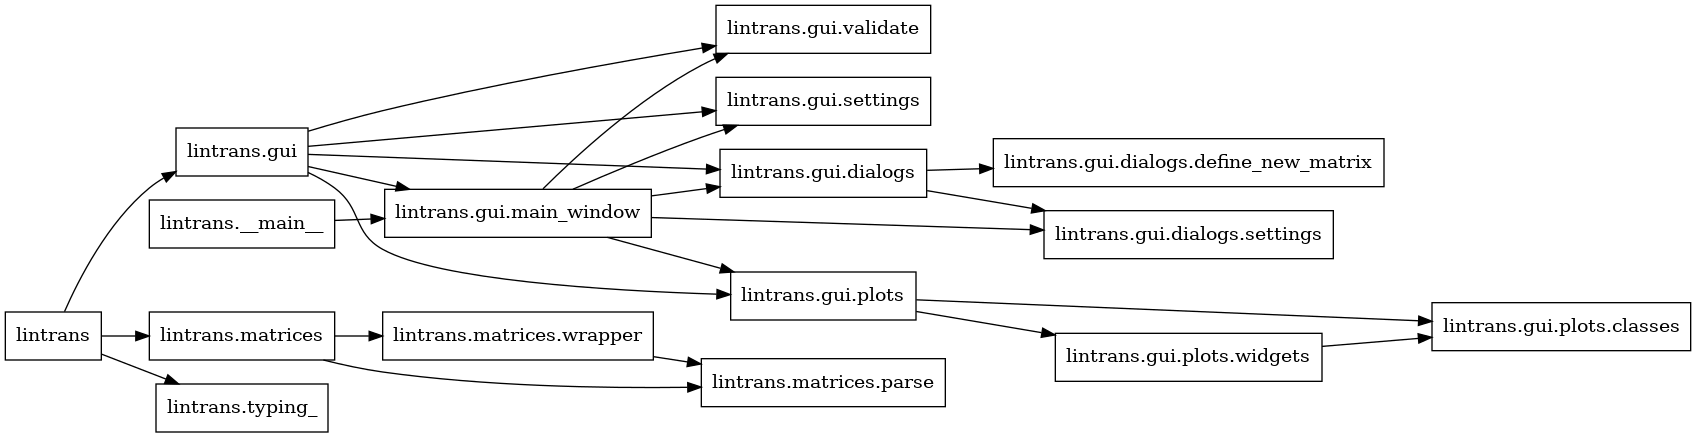
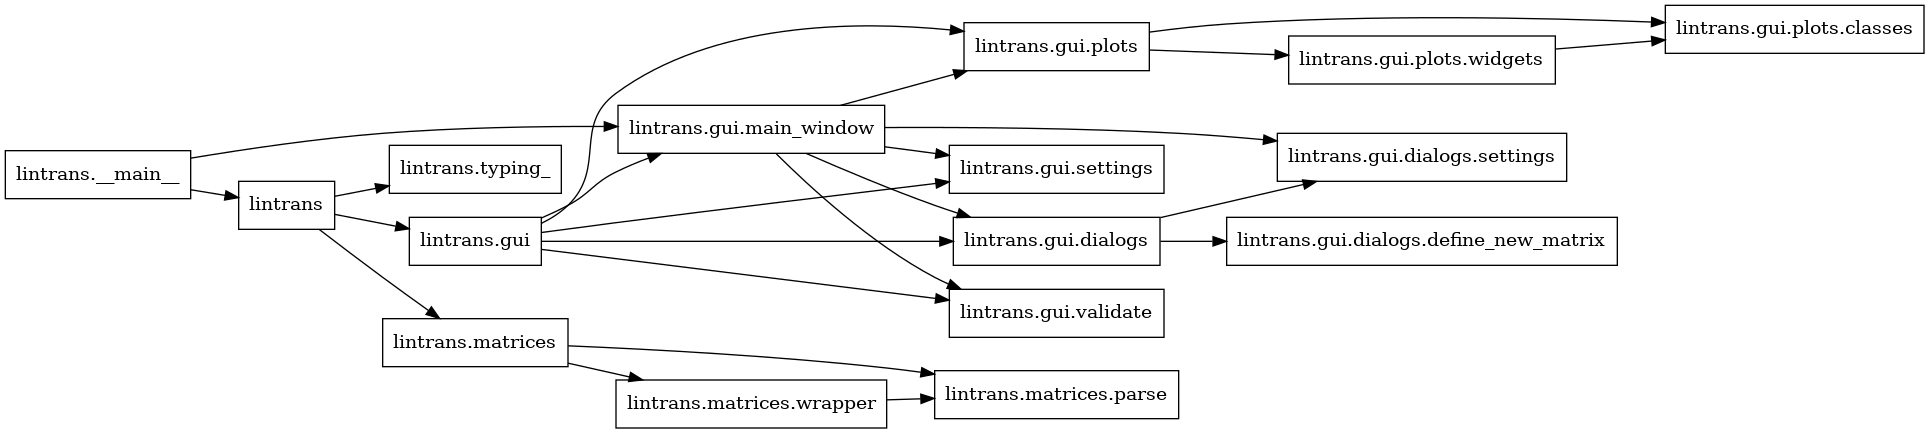
compile docs: ffc603f1bf049811cb927f879ce7989456f6a537

diff --git a/docs/searchindex.js b/docs/searchindex.js
@@ -1,1 +1,1 @@
-Search.setIndex({docnames:["index","lintrans","lintrans.gui","lintrans.gui.dialogs","lintrans.gui.plots","lintrans.matrices","lintrans.typing_"],envversion:{"sphinx.domains.c":2,"sphinx.domains.changeset":1,"sphinx.domains.citation":1,"sphinx.domains.cpp":4,"sphinx.domains.index":1,"sphinx.domains.javascript":2,"sphinx.domains.math":2,"sphinx.domains.python":3,"sphinx.domains.rst":2,"sphinx.domains.std":2,"sphinx.ext.intersphinx":1,sphinx:56},filenames:["index.rst","lintrans.rst","lintrans.gui.rst","lintrans.gui.dialogs.rst","lintrans.gui.plots.rst","lintrans.matrices.rst","lintrans.typing_.rst"],objects:{"":[[1,0,0,"-","lintrans"]],"lintrans.gui":[[3,0,0,"-","dialogs"],[2,0,0,"-","main_window"],[4,0,0,"-","plots"],[2,0,0,"-","settings"],[2,0,0,"-","validate"]],"lintrans.gui.dialogs":[[3,0,0,"-","define_new_matrix"],[3,0,0,"-","settings"]],"lintrans.gui.dialogs.define_new_matrix":[[3,1,1,"","DefineAsAnExpressionDialog"],[3,1,1,"","DefineDialog"],[3,1,1,"","DefineNumericallyDialog"],[3,1,1,"","DefineVisuallyDialog"],[3,4,1,"","is_valid_float"],[3,4,1,"","round_float"]],"lintrans.gui.dialogs.define_new_matrix.DefineAsAnExpressionDialog":[[3,2,1,"","__init__"],[3,2,1,"","confirm_matrix"],[3,2,1,"","load_matrix"],[3,2,1,"","update_confirm_button"]],"lintrans.gui.dialogs.define_new_matrix.DefineDialog":[[3,2,1,"","__init__"],[3,2,1,"","confirm_matrix"],[3,2,1,"","load_matrix"],[3,3,1,"","selected_letter"],[3,2,1,"","update_confirm_button"]],"lintrans.gui.dialogs.define_new_matrix.DefineNumericallyDialog":[[3,2,1,"","__init__"],[3,2,1,"","confirm_matrix"],[3,2,1,"","load_matrix"],[3,2,1,"","update_confirm_button"]],"lintrans.gui.dialogs.define_new_matrix.DefineVisuallyDialog":[[3,2,1,"","__init__"],[3,2,1,"","confirm_matrix"],[3,2,1,"","load_matrix"],[3,2,1,"","update_confirm_button"]],"lintrans.gui.dialogs.settings":[[3,1,1,"","DisplaySettingsDialog"],[3,1,1,"","SettingsDialog"]],"lintrans.gui.dialogs.settings.DisplaySettingsDialog":[[3,2,1,"","__init__"],[3,2,1,"","confirm_settings"],[3,2,1,"","keyPressEvent"],[3,2,1,"","load_settings"],[3,2,1,"","update_gui"]],"lintrans.gui.dialogs.settings.SettingsDialog":[[3,2,1,"","__init__"],[3,2,1,"","confirm_settings"],[3,2,1,"","load_settings"]],"lintrans.gui.main_window":[[2,1,1,"","LintransMainWindow"],[2,4,1,"","main"]],"lintrans.gui.main_window.LintransMainWindow":[[2,2,1,"","__init__"],[2,2,1,"","animate_between_matrices"],[2,2,1,"","animate_expression"],[2,2,1,"","assign_display_settings"],[2,2,1,"","assign_matrix_wrapper"],[2,2,1,"","dialog_change_display_settings"],[2,2,1,"","dialog_define_matrix"],[2,2,1,"","is_matrix_too_big"],[2,2,1,"","render_expression"],[2,2,1,"","reset_transformation"],[2,2,1,"","reset_zoom"],[2,2,1,"","show_error_message"],[2,2,1,"","update_render_buttons"]],"lintrans.gui.plots":[[4,0,0,"-","classes"],[4,0,0,"-","widgets"]],"lintrans.gui.plots.classes":[[4,1,1,"","BackgroundPlot"],[4,1,1,"","VectorGridPlot"]],"lintrans.gui.plots.classes.BackgroundPlot":[[4,2,1,"","__init__"],[4,2,1,"","canvas_coords"],[4,3,1,"","canvas_origin"],[4,2,1,"","canvas_x"],[4,2,1,"","canvas_y"],[4,5,1,"","default_grid_spacing"],[4,2,1,"","draw_background"],[4,2,1,"","grid_coords"],[4,2,1,"","grid_corner"],[4,2,1,"","paintEvent"],[4,2,1,"","wheelEvent"]],"lintrans.gui.plots.classes.VectorGridPlot":[[4,2,1,"","__init__"],[4,3,1,"","det"],[4,2,1,"","draw_arrowhead_away_from_origin"],[4,2,1,"","draw_basis_vectors"],[4,2,1,"","draw_determinant_parallelogram"],[4,2,1,"","draw_determinant_text"],[4,2,1,"","draw_eigenlines"],[4,2,1,"","draw_eigenvectors"],[4,2,1,"","draw_oblique_line"],[4,2,1,"","draw_pair_of_oblique_lines"],[4,2,1,"","draw_parallel_lines"],[4,2,1,"","draw_position_vector"],[4,2,1,"","draw_transformed_grid"],[4,3,1,"","eigs"],[4,3,1,"","matrix"],[4,2,1,"","paintEvent"]],"lintrans.gui.plots.widgets":[[4,1,1,"","DefineVisuallyWidget"],[4,1,1,"","VisualizeTransformationWidget"]],"lintrans.gui.plots.widgets.DefineVisuallyWidget":[[4,2,1,"","__init__"],[4,2,1,"","mouseMoveEvent"],[4,2,1,"","mousePressEvent"],[4,2,1,"","mouseReleaseEvent"],[4,2,1,"","paintEvent"]],"lintrans.gui.plots.widgets.VisualizeTransformationWidget":[[4,2,1,"","__init__"],[4,2,1,"","paintEvent"],[4,2,1,"","visualize_matrix_transformation"]],"lintrans.gui.settings":[[2,1,1,"","DisplaySettings"]],"lintrans.gui.settings.DisplaySettings":[[2,5,1,"","animation_pause_length"],[2,5,1,"","applicative_animation"],[2,5,1,"","draw_determinant_parallelogram"],[2,5,1,"","draw_determinant_text"],[2,5,1,"","draw_eigenlines"],[2,5,1,"","draw_eigenvectors"],[2,5,1,"","smoothen_determinant"]],"lintrans.gui.validate":[[2,1,1,"","MatrixExpressionValidator"]],"lintrans.gui.validate.MatrixExpressionValidator":[[2,2,1,"","validate"]],"lintrans.matrices":[[5,0,0,"-","parse"],[5,0,0,"-","wrapper"]],"lintrans.matrices.parse":[[5,6,1,"","MatrixParseError"],[5,4,1,"","compile_valid_expression_pattern"],[5,4,1,"","parse_matrix_expression"],[5,4,1,"","validate_matrix_expression"]],"lintrans.matrices.wrapper":[[5,1,1,"","MatrixWrapper"],[5,4,1,"","create_rotation_matrix"]],"lintrans.matrices.wrapper.MatrixWrapper":[[5,2,1,"","__eq__"],[5,2,1,"","__getitem__"],[5,2,1,"","__hash__"],[5,2,1,"","__init__"],[5,2,1,"","__repr__"],[5,2,1,"","__setitem__"],[5,2,1,"","evaluate_expression"],[5,2,1,"","get_expression"],[5,2,1,"","is_valid_expression"]],"lintrans.typing_":[[6,5,1,"","MatrixParseList"],[6,5,1,"","MatrixType"],[6,4,1,"","is_matrix_type"]],lintrans:[[1,0,0,"-","__main__"],[2,0,0,"-","gui"],[5,0,0,"-","matrices"],[6,0,0,"-","typing_"]]},objnames:{"0":["py","module","Python module"],"1":["py","class","Python class"],"2":["py","method","Python method"],"3":["py","property","Python property"],"4":["py","function","Python function"],"5":["py","attribute","Python attribute"],"6":["py","exception","Python exception"]},objtypes:{"0":"py:module","1":"py:class","2":"py:method","3":"py:property","4":"py:function","5":"py:attribute","6":"py:exception"},terms:{"0":[0,5],"1":[4,5],"100":2,"12":5,"2":[0,4,5,6],"23":5,"2b":5,"2rot":5,"2x2":[5,6],"3":5,"30":5,"32":2,"3a":5,"3b":5,"3m":5,"4":5,"400":2,"45":5,"45m":5,"5":[3,5],"6":5,"6b":5,"6d":5,"7":5,"70710678":5,"8":5,"85":4,"8660254":5,"9":5,"9e":5,"abstract":[3,4],"class":[2,3,5],"do":3,"float":[3,4,5,6],"function":[3,4,5,6],"int":[2,3,4,5],"long":5,"new":[2,3,5],"return":[2,3,4,5,6],"super":[3,4],"true":[2,4,5,6],"try":2,A:5,For:[3,5],If:[0,3,4,5],In:[5,6],It:[0,3,4,5],The:[2,3,4,5],There:2,These:[3,5,6],To:[0,4],__eq__:5,__getitem__:5,__hash__:5,__init__:[2,3,4,5],__repr__:5,__setitem__:5,_ndarrai:6,_number:6,ab:5,abc:[3,4],abcmeta:[3,4],abl:[3,4],about:4,accept:[2,3,5],access:5,accord:[2,3,5],activ:3,actual:[2,3,4,5],against:5,algebra:6,alias:6,all:[1,4,5,6],allow:[1,3,4,5],also:[2,5],alt:3,alwai:3,an:[0,2,3,4,5,6],angl:[5,6],ani:[4,5,6],anim:[2,5],animate_between_matric:2,animate_express:2,animation_pause_length:2,anticlockwis:5,anyth:3,app:[1,2,3],appli:2,applic:[2,4],applicative_anim:2,ar:[2,3,4,5,6],arg:[2,3,4],argument:2,argv:2,around:4,arrai:[5,6],arrang:2,arrowhead:4,assembl:4,assign:[2,3,4,5],assign_display_set:2,assign_matrix_wrapp:2,associ:2,asynchron:2,attempt:5,attribut:[2,4],automat:3,avail:0,avoid:6,awai:4,awar:5,b:5,back:2,backend:[0,4],background:4,backgroundplot:4,base:[2,3,4,5],basi:4,basic:5,becaus:[2,3,4],been:[3,6],behaviour:4,between:[2,5],bit:2,block:2,blow:2,bnf:5,bodi:3,bool:[2,3,4,5],boundari:4,box:[2,3],brace:5,bracket:5,build:3,builtin:6,button:[2,3,4],c:[2,4],call:[1,2,3,4,5,6],caller:4,can:[3,4,5],cannot:[4,5],canva:[2,4],canvas_coord:4,canvas_i:4,canvas_origin:4,canvas_x:4,capit:[5,6],cast:3,chang:2,check:[2,3,5,6],checkbox:3,chosen:3,clarifi:5,code:0,collis:6,colour:4,combo:3,comma:[2,5],command:1,compar:5,compil:5,compile_valid_expression_pattern:5,compon:[4,5],compos:4,composit:4,configur:2,confirm:3,confirm_matrix:3,confirm_set:3,connect:2,constant:5,construct:2,constructor:[3,4],contain:[1,2,5,6],context:5,control:[2,4],convert:[2,4],coord:[2,4],coordin:4,corner:4,correct:5,could:5,couldn:4,crash:2,creat:[2,3,4,5],create_rotation_matrix:5,current:[2,3],custom:5,d:5,debug:5,decim:3,default_grid_spac:4,defin:[2,3,4,5],define_new_matrix:[2,4],defineasanexpressiondialog:3,definedialog:[2,3],definenumericallydialog:3,definevisuallydialog:[3,4],definevisuallywidget:4,definit:[2,3,4],degre:5,desir:2,det:[2,4],detail:4,determin:[2,4],dialog:[2,4],dialog_change_display_set:2,dialog_class:2,dialog_define_matrix:2,dictionari:5,differ:3,digit:5,digit_no_zero:5,directli:[2,3,4],disabl:[2,3],displai:[2,3,4],display_set:[2,3,4],displayset:[2,3,4],displaysettingsdialog:3,document:[0,5],doe:4,doesn:[2,3],don:6,done:4,drag:4,draw:[2,4],draw_arrowhead_away_from_origin:4,draw_background:4,draw_basis_vector:4,draw_determinant_parallelogram:[2,4],draw_determinant_text:[2,4],draw_eigenlin:[2,4],draw_eigenvector:[2,4],draw_oblique_lin:4,draw_pair_of_oblique_lin:4,draw_parallel_lin:4,draw_position_vector:4,draw_transformed_grid:4,drawlin:4,drawn:4,dure:2,e:5,each:6,edit:3,eig:4,eigenlin:[2,4],eigenvalu:4,eigenvector:[2,4],either:4,element:2,els:[3,5],empti:3,enabl:[2,3,4],ensur:5,equal:5,equat:4,error:[2,3,5],evalu:[3,5,6],evaluate_express:5,even:2,evenli:4,event:[3,4],everi:[2,3,4,6],everyth:5,exampl:[3,5],except:5,exclus:5,expect:5,express:[1,2,3],fals:[2,3,4,5],fetch:5,fit:[2,4],fix:6,focu:2,found:5,framework:2,from:[1,2,4,5],gener:[0,2],get:[0,2,5],get_express:5,give:2,given:[2,3,4,5,6],got:3,gradient:4,graph:0,grid:4,grid_coord:4,grid_corn:4,group:6,gui:[0,1,5],handl:[3,4],hash:5,have:[3,4,6],here:[0,3,5],hit:3,hold:[2,5],how:[0,6],howev:[3,5],i:[3,4,5,6],ident:[2,3],identifi:6,ignor:[2,5],implement:[3,4],index:[0,3,5,6],index_cont:5,info:2,inform:2,initialis:5,input:[2,3,5],insid:2,instanc:2,instanti:[2,3,4],instead:2,integ:[2,5,6],integer_not_zero:5,intend:4,interact:2,intercept:4,intern:0,interpret:5,intersect:4,invalid:5,invari:4,invers:5,is_matrix_too_big:2,is_matrix_typ:6,is_valid_express:5,is_valid_float:3,isn:5,iter:4,its:[3,4,5],itself:[4,5],j:4,just:[2,3,4,5],kei:3,keypressev:3,know:6,kwarg:[3,4],layout:3,legal:5,let:2,letter:[3,5,6],level:[1,2,6],librari:0,like:[1,3,4,5],limit:2,linalgerror:5,line:[1,4],linear:6,lintransmainwindow:2,list:[2,5,6],load:3,load_matrix:3,load_set:3,m:[1,4,5],mai:5,main:[1,2,3,4,5],main_window:1,make:[2,3,4],manual:3,match:5,matric:[1,2,3],matrix:[2,3,4,5,6],matrix_identifi:[5,6],matrix_start:2,matrix_target:2,matrix_wrapp:[2,3],matrixexpressionvalid:2,matrixparseerror:5,matrixparselist:[5,6],matrixtyp:[2,4,5,6],matrixwrapp:[3,5],mean:[2,4,5,6],messag:2,metaclass:[3,4],method:[2,3,4,5],middl:4,millisecond:2,minu:5,modal:2,modul:0,more:2,mous:4,mousemoveev:4,mousepressev:4,mousereleaseev:4,move:4,multipl:6,multipli:[5,6],must:[2,3,4,5,6],mutat:3,mx:4,n:5,name:[3,5,6],nameerror:5,ndarrai:[4,6],need:[3,4,5],neg:[2,4,5],never:[3,4],new_matrix:5,nice:5,none:[2,3,4,5],normal:2,notat:5,np:5,nptype:6,num:3,number:[2,3,5,6],numer:3,numpi:[5,6],object:[2,3,5],obliqu:4,occur:6,often:2,onc:6,onli:[2,3,4],onto:2,open:2,option:[2,3,5],order:6,origin:4,other:[3,5],our:4,over:4,overridden:[3,4],overview:0,own:5,packag:0,painter:4,paintev:4,pair:4,parallel:4,parallelogram:[2,4],paramet:[2,3,4,5],pars:1,parse_matrix_express:5,part:4,pass:[2,3,4,6],pattern:5,pi:5,place:3,plane:4,plot:[2,3],plu:5,po:2,point:[3,4],point_i:4,point_j:4,posit:[2,4,5],possibl:5,power:5,precis:3,press:4,pretti:3,previous:5,print:3,problem:6,project:[0,1],proper:2,properti:[3,4],provid:[2,3,4,5],pylint:0,pyqt5:[2,3,4],python:1,qapplic:2,qcolor:4,qcombobox:3,qdialog:[2,3],qkeyev:3,qmainwindow:2,qmouseev:4,qpainter:4,qpaintev:4,qt:[2,3,4],qtgui:[2,3,4],qtwidget:[2,3,4],quit:6,qvalid:2,qwheelev:4,qwidget:4,radian:5,rais:[3,5],rather:3,re:2,real:[5,6],real_numb:5,refer:0,regex:5,releas:4,renam:6,render:[2,4],render_express:2,repr:5,repres:[2,4,5,6],reset:2,reset_transform:2,reset_zoom:2,result:[4,5],right:4,rot:[5,6],rotat:5,round:3,round_float:3,rule:2,run:[1,2],s:[0,2,3,6],same:[3,4],schema:5,see:4,select:3,selected_lett:3,self:[2,3,4],separ:3,set:[1,4,5],settingsdialog:3,setup:4,shade:2,shortcut:3,should:[2,3,4,6],show:[2,3],show_error_messag:2,signal:[2,3],simpl:[2,3,5],simpli:[1,2,3,5],singl:5,singular:5,slot:3,smoothen_determin:2,smoothli:2,so:[2,3],softwar:0,some:2,space:4,squar:5,start:2,state:2,step:[2,5],str:[2,3,5],string:[3,4,5,6],structur:0,stuff:4,subclass:[2,3,4],sum:6,summari:5,superclass:[3,4],suppli:[2,5,6],sure:2,sy:2,syntax:[1,2],t:[2,3,4,5,6],target:2,tc:2,technic:5,term:5,text:[2,4],than:3,thei:[2,6],them:[4,5,6],thi:[0,1,2,3,4,5,6],thing:2,tip:4,titl:2,togeth:[4,6],toggl:3,top:[1,4,6],track:4,transform:[2,4,6],transit:2,transpos:[5,6],tupl:[2,4,6],tutori:0,two:2,type:[2,4,5,6],typeerror:5,typeguard:6,typing_:[1,2,4,5],union:5,unpack:4,untransform:4,up:2,updat:[3,4],update_confirm_button:3,update_gui:3,update_render_button:2,us:[0,2,3,4,5],user:[1,3,4],util:4,valid:[1,3,5,6],validate_matrix_express:5,valu:[2,3,4,5,6],valueerror:5,vector:4,vectorgridplot:4,veri:1,versa:2,version:[0,4,5],vice:2,visual:[2,3,4],visualis:4,visualize_matrix_transform:4,visualizetransformationwidget:4,wai:3,wait:2,want:[0,2,4,5],we:[2,3,4,5],well:4,were:4,wheelev:4,when:[2,3,4,5],where:[5,6],whether:[2,3,4,5],which:[1,2,3,4,5,6],whitespac:5,widget:[2,3],window:[2,4],within:[2,3,4],worri:4,would:[3,4],wrap:5,wrapper:[1,3],write:[2,4],written:5,x1:4,x2:4,x:[4,5,6],y1:4,y2:4,y:4,you:[0,4,5],z:5,zip:4,zoom:[2,4]},titles:["Welcome to the lintrans docs","lintrans package","lintrans.gui package","lintrans.gui.dialogs package","lintrans.gui.plots package","lintrans.matrices package","lintrans.typing_ package"],titleterms:{"class":4,__main__:1,content:[0,1,2,3,4,5,6],define_new_matrix:3,dialog:3,doc:0,express:5,gui:[2,3,4],indic:0,lintran:[0,1,2,3,4,5,6],main_window:2,matric:5,modul:[1,2,3,4,5,6],packag:[1,2,3,4,5,6],pars:5,plot:4,set:[2,3],submodul:[1,2,3,4,5],subpackag:[1,2],syntax:5,tabl:0,typing_:6,valid:2,welcom:0,widget:4,wrapper:5}})
+Search.setIndex({docnames:["index","lintrans","lintrans.gui","lintrans.gui.dialogs","lintrans.gui.plots","lintrans.matrices","lintrans.typing_"],envversion:{"sphinx.domains.c":2,"sphinx.domains.changeset":1,"sphinx.domains.citation":1,"sphinx.domains.cpp":4,"sphinx.domains.index":1,"sphinx.domains.javascript":2,"sphinx.domains.math":2,"sphinx.domains.python":3,"sphinx.domains.rst":2,"sphinx.domains.std":2,"sphinx.ext.intersphinx":1,sphinx:56},filenames:["index.rst","lintrans.rst","lintrans.gui.rst","lintrans.gui.dialogs.rst","lintrans.gui.plots.rst","lintrans.matrices.rst","lintrans.typing_.rst"],objects:{"":[[1,0,0,"-","lintrans"]],"lintrans.__main__":[[1,1,1,"","main"]],"lintrans.gui":[[3,0,0,"-","dialogs"],[2,0,0,"-","main_window"],[4,0,0,"-","plots"],[2,0,0,"-","settings"],[2,0,0,"-","validate"]],"lintrans.gui.dialogs":[[3,0,0,"-","define_new_matrix"],[3,0,0,"-","settings"]],"lintrans.gui.dialogs.define_new_matrix":[[3,2,1,"","DefineAsAnExpressionDialog"],[3,2,1,"","DefineDialog"],[3,2,1,"","DefineNumericallyDialog"],[3,2,1,"","DefineVisuallyDialog"],[3,1,1,"","is_valid_float"],[3,1,1,"","round_float"]],"lintrans.gui.dialogs.define_new_matrix.DefineAsAnExpressionDialog":[[3,3,1,"","__init__"],[3,3,1,"","confirm_matrix"],[3,3,1,"","load_matrix"],[3,3,1,"","update_confirm_button"]],"lintrans.gui.dialogs.define_new_matrix.DefineDialog":[[3,3,1,"","__init__"],[3,3,1,"","confirm_matrix"],[3,3,1,"","load_matrix"],[3,4,1,"","selected_letter"],[3,3,1,"","update_confirm_button"]],"lintrans.gui.dialogs.define_new_matrix.DefineNumericallyDialog":[[3,3,1,"","__init__"],[3,3,1,"","confirm_matrix"],[3,3,1,"","load_matrix"],[3,3,1,"","update_confirm_button"]],"lintrans.gui.dialogs.define_new_matrix.DefineVisuallyDialog":[[3,3,1,"","__init__"],[3,3,1,"","confirm_matrix"],[3,3,1,"","load_matrix"],[3,3,1,"","update_confirm_button"]],"lintrans.gui.dialogs.settings":[[3,2,1,"","DisplaySettingsDialog"],[3,2,1,"","SettingsDialog"]],"lintrans.gui.dialogs.settings.DisplaySettingsDialog":[[3,3,1,"","__init__"],[3,3,1,"","confirm_settings"],[3,3,1,"","keyPressEvent"],[3,3,1,"","load_settings"],[3,3,1,"","update_gui"]],"lintrans.gui.dialogs.settings.SettingsDialog":[[3,3,1,"","__init__"],[3,3,1,"","confirm_settings"],[3,3,1,"","load_settings"]],"lintrans.gui.main_window":[[2,2,1,"","LintransMainWindow"],[2,1,1,"","main"]],"lintrans.gui.main_window.LintransMainWindow":[[2,3,1,"","__init__"],[2,3,1,"","animate_between_matrices"],[2,3,1,"","animate_expression"],[2,3,1,"","assign_display_settings"],[2,3,1,"","assign_matrix_wrapper"],[2,3,1,"","dialog_change_display_settings"],[2,3,1,"","dialog_define_matrix"],[2,3,1,"","is_matrix_too_big"],[2,3,1,"","render_expression"],[2,3,1,"","reset_transformation"],[2,3,1,"","reset_zoom"],[2,3,1,"","show_error_message"],[2,3,1,"","update_render_buttons"]],"lintrans.gui.plots":[[4,0,0,"-","classes"],[4,0,0,"-","widgets"]],"lintrans.gui.plots.classes":[[4,2,1,"","BackgroundPlot"],[4,2,1,"","VectorGridPlot"]],"lintrans.gui.plots.classes.BackgroundPlot":[[4,3,1,"","__init__"],[4,3,1,"","canvas_coords"],[4,4,1,"","canvas_origin"],[4,3,1,"","canvas_x"],[4,3,1,"","canvas_y"],[4,5,1,"","default_grid_spacing"],[4,3,1,"","draw_background"],[4,3,1,"","grid_coords"],[4,3,1,"","grid_corner"],[4,3,1,"","paintEvent"],[4,3,1,"","wheelEvent"]],"lintrans.gui.plots.classes.VectorGridPlot":[[4,3,1,"","__init__"],[4,4,1,"","det"],[4,3,1,"","draw_arrowhead_away_from_origin"],[4,3,1,"","draw_basis_vectors"],[4,3,1,"","draw_determinant_parallelogram"],[4,3,1,"","draw_determinant_text"],[4,3,1,"","draw_eigenlines"],[4,3,1,"","draw_eigenvectors"],[4,3,1,"","draw_oblique_line"],[4,3,1,"","draw_pair_of_oblique_lines"],[4,3,1,"","draw_parallel_lines"],[4,3,1,"","draw_position_vector"],[4,3,1,"","draw_transformed_grid"],[4,4,1,"","eigs"],[4,4,1,"","matrix"],[4,3,1,"","paintEvent"]],"lintrans.gui.plots.widgets":[[4,2,1,"","DefineVisuallyWidget"],[4,2,1,"","VisualizeTransformationWidget"]],"lintrans.gui.plots.widgets.DefineVisuallyWidget":[[4,3,1,"","__init__"],[4,3,1,"","mouseMoveEvent"],[4,3,1,"","mousePressEvent"],[4,3,1,"","mouseReleaseEvent"],[4,3,1,"","paintEvent"]],"lintrans.gui.plots.widgets.VisualizeTransformationWidget":[[4,3,1,"","__init__"],[4,3,1,"","paintEvent"],[4,3,1,"","visualize_matrix_transformation"]],"lintrans.gui.settings":[[2,2,1,"","DisplaySettings"]],"lintrans.gui.settings.DisplaySettings":[[2,5,1,"","animation_pause_length"],[2,5,1,"","applicative_animation"],[2,5,1,"","draw_determinant_parallelogram"],[2,5,1,"","draw_determinant_text"],[2,5,1,"","draw_eigenlines"],[2,5,1,"","draw_eigenvectors"],[2,5,1,"","smoothen_determinant"]],"lintrans.gui.validate":[[2,2,1,"","MatrixExpressionValidator"]],"lintrans.gui.validate.MatrixExpressionValidator":[[2,3,1,"","validate"]],"lintrans.matrices":[[5,0,0,"-","parse"],[5,0,0,"-","wrapper"]],"lintrans.matrices.parse":[[5,6,1,"","MatrixParseError"],[5,1,1,"","compile_valid_expression_pattern"],[5,1,1,"","parse_matrix_expression"],[5,1,1,"","validate_matrix_expression"]],"lintrans.matrices.wrapper":[[5,2,1,"","MatrixWrapper"],[5,1,1,"","create_rotation_matrix"]],"lintrans.matrices.wrapper.MatrixWrapper":[[5,3,1,"","__eq__"],[5,3,1,"","__getitem__"],[5,3,1,"","__hash__"],[5,3,1,"","__init__"],[5,3,1,"","__repr__"],[5,3,1,"","__setitem__"],[5,3,1,"","evaluate_expression"],[5,3,1,"","get_expression"],[5,3,1,"","is_valid_expression"]],"lintrans.typing_":[[6,5,1,"","MatrixParseList"],[6,5,1,"","MatrixType"],[6,1,1,"","is_matrix_type"]],lintrans:[[1,0,0,"-","__main__"],[2,0,0,"-","gui"],[5,0,0,"-","matrices"],[6,0,0,"-","typing_"]]},objnames:{"0":["py","module","Python module"],"1":["py","function","Python function"],"2":["py","class","Python class"],"3":["py","method","Python method"],"4":["py","property","Python property"],"5":["py","attribute","Python attribute"],"6":["py","exception","Python exception"]},objtypes:{"0":"py:module","1":"py:function","2":"py:class","3":"py:method","4":"py:property","5":"py:attribute","6":"py:exception"},terms:{"0":[0,1,5],"1":[4,5],"100":2,"12":5,"2":[0,4,5,6],"23":5,"2b":5,"2rot":5,"2x2":[5,6],"3":5,"30":5,"32":2,"3a":5,"3b":5,"3m":5,"4":5,"400":2,"45":5,"45m":5,"5":[3,5],"6":5,"6b":5,"6d":5,"7":5,"70710678":5,"8":5,"85":4,"8660254":5,"9":5,"9e":5,"abstract":[3,4],"case":1,"class":[2,3,5],"do":3,"float":[3,4,5,6],"function":[1,3,4,5,6],"int":[2,3,4,5],"long":5,"new":[2,3,5],"return":[1,2,3,4,5,6],"super":[3,4],"true":[2,4,5,6],"try":2,A:5,For:[3,5],If:[0,1,3,4,5],In:[5,6],It:[0,3,4,5],The:[1,2,3,4,5],There:2,These:[3,5,6],To:[0,4],__eq__:5,__getitem__:5,__hash__:5,__init__:[2,3,4,5],__repr__:5,__setitem__:5,_ndarrai:6,_number:6,ab:5,abc:[3,4],abcmeta:[3,4],abl:[3,4],about:4,accept:[2,3,5],access:5,accord:[2,3,5],activ:3,actual:[2,3,4,5],against:5,algebra:6,alias:6,all:[1,4,5,6],allow:[3,4,5],also:[2,5],alt:3,alwai:3,an:[0,2,3,4,5,6],angl:[5,6],ani:[4,5,6],anim:[2,5],animate_between_matric:2,animate_express:2,animation_pause_length:2,anticlockwis:5,anyth:3,app:[2,3],appli:2,applic:[2,4],applicative_anim:2,ar:[2,3,4,5,6],arg:[1,2,3,4],argument:[1,2],argv:[1,2],around:4,arrai:[5,6],arrang:2,arrowhead:4,assembl:4,assign:[2,3,4,5],assign_display_set:2,assign_matrix_wrapp:2,associ:2,asynchron:2,attempt:5,attribut:[2,4],automat:3,avail:0,avoid:6,awai:4,awar:5,b:5,back:2,backend:[0,4],background:4,backgroundplot:4,base:[2,3,4,5],basi:4,basic:5,becaus:[2,3,4],been:[3,6],behaviour:4,between:[2,5],bit:2,block:2,blow:2,bnf:5,bodi:3,bool:[2,3,4,5],boundari:4,box:[2,3],brace:5,bracket:5,build:3,builtin:6,button:[2,3,4],c:[2,4],call:[2,3,4,5,6],caller:4,can:[3,4,5],cannot:[4,5],canva:[2,4],canvas_coord:4,canvas_i:4,canvas_origin:4,canvas_x:4,capit:[5,6],cast:3,chang:2,check:[2,3,5,6],checkbox:3,chosen:3,clarifi:5,code:0,collis:6,colour:4,combo:3,comma:[2,5],command:1,compar:5,compil:5,compile_valid_expression_pattern:5,compon:[4,5],compos:4,composit:4,configur:2,confirm:3,confirm_matrix:3,confirm_set:3,connect:2,constant:5,construct:2,constructor:[3,4],contain:[1,2,5,6],context:5,control:[2,4],convert:[2,4],coord:[2,4],coordin:4,corner:4,correct:5,could:5,couldn:4,crash:2,creat:[2,3,4,5],create_rotation_matrix:5,current:[2,3],custom:5,d:5,debug:5,decim:3,default_grid_spac:4,defin:[2,3,4,5],define_new_matrix:[2,4],defineasanexpressiondialog:3,definedialog:[2,3],definenumericallydialog:3,definevisuallydialog:[3,4],definevisuallywidget:4,definit:[2,3,4],degre:5,desir:2,det:[2,4],detail:4,determin:[2,4],dialog:[2,4],dialog_change_display_set:2,dialog_class:2,dialog_define_matrix:2,dictionari:5,differ:3,digit:5,digit_no_zero:5,directli:[2,3,4],disabl:[2,3],displai:[2,3,4],display_set:[2,3,4],displayset:[2,3,4],displaysettingsdialog:3,document:[0,5],doe:4,doesn:[2,3],don:[1,6],done:4,drag:4,draw:[2,4],draw_arrowhead_away_from_origin:4,draw_background:4,draw_basis_vector:4,draw_determinant_parallelogram:[2,4],draw_determinant_text:[2,4],draw_eigenlin:[2,4],draw_eigenvector:[2,4],draw_oblique_lin:4,draw_pair_of_oblique_lin:4,draw_parallel_lin:4,draw_position_vector:4,draw_transformed_grid:4,drawlin:4,drawn:4,dure:2,e:5,each:6,edit:3,eig:4,eigenlin:[2,4],eigenvalu:4,eigenvector:[2,4],either:[1,4],element:2,els:[3,5],empti:3,enabl:[2,3,4],ensur:5,equal:5,equat:4,error:[2,3,5],evalu:[3,5,6],evaluate_express:5,even:2,evenli:4,event:[3,4],everi:[2,3,4,6],everyth:5,exampl:[3,5],except:5,exclus:5,expect:5,express:[1,2,3],fals:[2,3,4,5],fetch:5,fit:[2,4],fix:6,focu:2,found:5,framework:2,from:[2,4,5],gener:[0,2],get:[0,2,5],get_express:5,give:2,given:[2,3,4,5,6],got:3,gradient:4,graph:0,grid:4,grid_coord:4,grid_corn:4,group:6,gui:[0,1,5],handl:[3,4],hash:5,have:[3,4,6],help:1,here:[0,3,5],hit:3,hold:[2,5],how:[0,6],howev:[3,5],i:[3,4,5,6],ident:[2,3],identifi:6,ignor:[2,5],implement:[3,4],index:[0,3,5,6],index_cont:5,info:2,inform:2,initialis:5,input:[2,3,5],insid:2,instanc:2,instanti:[2,3,4],instead:2,integ:[2,5,6],integer_not_zero:5,intend:4,interact:2,intercept:4,intern:0,interpret:[1,5],intersect:4,invalid:5,invari:4,invers:5,is_matrix_too_big:2,is_matrix_typ:6,is_valid_express:5,is_valid_float:3,isn:5,iter:4,its:[3,4,5],itself:[4,5],j:4,just:[2,3,4,5],kei:3,keypressev:3,know:6,kwarg:[3,4],layout:3,legal:5,let:2,letter:[3,5,6],level:[1,2,6],librari:0,like:[3,4,5],limit:2,linalgerror:5,line:[1,4],linear:6,lintransmainwindow:2,list:[1,2,5,6],load:3,load_matrix:3,load_set:3,m:[1,4,5],mai:5,main:[1,2,3,4,5],main_window:1,make:[2,3,4],manual:3,match:5,matric:[1,2,3],matrix:[2,3,4,5,6],matrix_identifi:[5,6],matrix_start:2,matrix_target:2,matrix_wrapp:[2,3],matrixexpressionvalid:2,matrixparseerror:5,matrixparselist:[5,6],matrixtyp:[2,4,5,6],matrixwrapp:[3,5],mean:[2,4,5,6],messag:2,metaclass:[3,4],method:[2,3,4,5],middl:4,millisecond:2,minu:5,modal:2,modul:0,more:2,most:1,mous:4,mousemoveev:4,mousepressev:4,mousereleaseev:4,move:4,multipl:6,multipli:[5,6],must:[2,3,4,5,6],mutat:3,mx:4,n:5,name:[1,3,5,6],nameerror:5,ndarrai:[4,6],need:[3,4,5],neg:[2,4,5],never:[3,4],new_matrix:5,nice:5,none:[1,2,3,4,5],normal:2,notat:5,np:5,nptype:6,num:3,number:[2,3,5,6],numer:3,numpi:[5,6],object:[2,3,5],obliqu:4,occur:6,often:2,onc:6,onli:[2,3,4],onto:2,open:2,option:[2,3,5],order:6,origin:4,other:[1,3,5],our:4,over:4,overridden:[3,4],overview:0,own:5,packag:0,painter:4,paintev:4,pair:4,parallel:4,parallelogram:[2,4],paramet:[1,2,3,4,5],pars:1,parse_matrix_express:5,part:4,pass:[2,3,4,6],pattern:5,pi:5,place:3,plane:4,plot:[2,3],plu:5,po:2,point:[3,4],point_i:4,point_j:4,posit:[2,4,5],possibl:5,power:5,precis:3,press:4,pretti:3,previous:5,print:3,problem:6,prog_nam:1,program:1,project:[0,1],proper:2,properti:[3,4],provid:[1,2,3,4,5],pylint:0,pyqt5:[2,3,4],python:1,qapplic:2,qcolor:4,qcombobox:3,qdialog:[2,3],qkeyev:3,qmainwindow:2,qmouseev:4,qpainter:4,qpaintev:4,qt:[2,3,4],qtgui:[2,3,4],qtwidget:[2,3,4],quit:6,qvalid:2,qwheelev:4,qwidget:4,radian:5,rais:[3,5],rather:3,re:2,real:[5,6],real_numb:5,refer:0,regex:5,releas:4,renam:6,render:[2,4],render_express:2,repr:5,repres:[2,4,5,6],reset:2,reset_transform:2,reset_zoom:2,respond:1,result:[4,5],right:4,rot:[5,6],rotat:5,round:3,round_float:3,rule:2,run:[1,2],s:[0,2,3,6],same:[3,4],schema:5,script:1,see:4,select:3,selected_lett:3,self:[2,3,4],separ:3,set:[1,4,5],settingsdialog:3,setup:4,shade:2,shortcut:3,should:[2,3,4,6],show:[2,3],show_error_messag:2,signal:[2,3],simpl:[2,3,5],simpli:[1,2,3,5],singl:5,singular:5,slot:3,smoothen_determin:2,smoothli:2,so:[2,3],softwar:0,some:2,space:4,specif:1,squar:5,start:2,state:2,step:[2,5],str:[1,2,3,5],string:[3,4,5,6],structur:0,stuff:4,subclass:[2,3,4],sum:6,summari:5,superclass:[3,4],suppli:[1,2,5,6],sure:2,sy:[1,2],syntax:[1,2],t:[1,2,3,4,5,6],target:2,tc:2,technic:5,term:5,text:[2,4],than:3,thei:[1,2,6],them:[4,5,6],thi:[0,1,2,3,4,5,6],thing:2,tip:4,titl:2,togeth:[4,6],toggl:3,top:[1,4,6],track:4,transform:[2,4,6],transit:2,transpos:[5,6],tupl:[2,4,6],tutori:0,two:2,type:[2,4,5,6],typeerror:5,typeguard:6,typing_:[1,2,4,5],union:5,unpack:4,untransform:4,up:2,updat:[3,4],update_confirm_button:3,update_gui:3,update_render_button:2,us:[0,2,3,4,5],user:[1,3,4],util:4,valid:[1,3,5,6],validate_matrix_express:5,valu:[2,3,4,5,6],valueerror:5,vector:4,vectorgridplot:4,versa:2,version:[0,1,4,5],vice:2,visual:[2,3,4],visualis:4,visualize_matrix_transform:4,visualizetransformationwidget:4,wai:3,wait:2,want:[0,2,4,5],we:[1,2,3,4,5],well:4,were:4,wheelev:4,when:[1,2,3,4,5],where:[5,6],whether:[2,3,4,5],which:[1,2,3,4,5,6],whitespac:5,widget:[2,3],window:[1,2,4],within:[2,3,4],worri:4,would:[3,4],wrap:5,wrapper:[1,3],write:[2,4],written:5,x1:4,x2:4,x:[4,5,6],y1:4,y2:4,y:4,you:[0,4,5],z:5,zip:4,zoom:[2,4]},titles:["Welcome to the lintrans docs","lintrans package","lintrans.gui package","lintrans.gui.dialogs package","lintrans.gui.plots package","lintrans.matrices package","lintrans.typing_ package"],titleterms:{"class":4,__main__:1,content:[0,1,2,3,4,5,6],define_new_matrix:3,dialog:3,doc:0,express:5,gui:[2,3,4],indic:0,lintran:[0,1,2,3,4,5,6],main_window:2,matric:5,modul:[1,2,3,4,5,6],packag:[1,2,3,4,5,6],pars:5,plot:4,set:[2,3],submodul:[1,2,3,4,5],subpackag:[1,2],syntax:5,tabl:0,typing_:6,valid:2,welcom:0,widget:4,wrapper:5}})

diff --git a/docs/lintrans.html b/docs/lintrans.html
@@ -116,8 +116,24 @@
 </section>
 <section id="module-lintrans.__main__">
 <span id="lintrans-main-module"></span><h2>lintrans.__main__ module<a class="headerlink" href="#module-lintrans.__main__" title="Permalink to this headline"></a></h2>
-<p>This module very simply runs the app by calling <a class="reference internal" href="lintrans.gui.html#lintrans.gui.main_window.main" title="lintrans.gui.main_window.main"><code class="xref py py-func docutils literal notranslate"><span class="pre">lintrans.gui.main_window.main()</span></code></a>.</p>
-<p>This allows the user to run the app like <code class="docutils literal notranslate"><span class="pre">python</span> <span class="pre">-m</span> <span class="pre">lintrans</span></code> from the command line.</p>
+<p>This module provides a <a class="reference internal" href="#lintrans.__main__.main" title="lintrans.__main__.main"><code class="xref py py-func docutils literal notranslate"><span class="pre">main()</span></code></a> function to interpret command line arguments and run the program.</p>
+<dl class="py function">
+<dt class="sig sig-object py" id="lintrans.__main__.main">
+<span class="sig-prename descclassname"><span class="pre">lintrans.__main__.</span></span><span class="sig-name descname"><span class="pre">main</span></span><span class="sig-paren">(</span><em class="sig-param"><span class="n"><span class="pre">prog_name</span></span><span class="p"><span class="pre">:</span></span><span class="w"> </span><span class="n"><a class="reference external" href="https://docs.python.org/3/library/stdtypes.html#str" title="(in Python v3.10)"><span class="pre">str</span></a></span></em>, <em class="sig-param"><span class="n"><span class="pre">args</span></span><span class="p"><span class="pre">:</span></span><span class="w"> </span><span class="n"><a class="reference external" href="https://docs.python.org/3/library/stdtypes.html#list" title="(in Python v3.10)"><span class="pre">list</span></a><span class="p"><span class="pre">[</span></span><a class="reference external" href="https://docs.python.org/3/library/stdtypes.html#str" title="(in Python v3.10)"><span class="pre">str</span></a><span class="p"><span class="pre">]</span></span></span></em><span class="sig-paren">)</span> <span class="sig-return"><span class="sig-return-icon">&#x2192;</span> <span class="sig-return-typehint"><a class="reference external" href="https://docs.python.org/3/library/constants.html#None" title="(in Python v3.10)"><span class="pre">None</span></a></span></span><a class="headerlink" href="#lintrans.__main__.main" title="Permalink to this definition"></a></dt>
+<dd><p>Interpret program-specific command line arguments and run the main window in most cases.</p>
+<p>If the user supplies –help or –version, then we simply respond to that and then return.
+If they don’t supply either of these, then we run <a class="reference internal" href="lintrans.gui.html#lintrans.gui.main_window.main" title="lintrans.gui.main_window.main"><code class="xref py py-func docutils literal notranslate"><span class="pre">lintrans.gui.main_window.main()</span></code></a>.</p>
+<p><code class="docutils literal notranslate"><span class="pre">prog_name</span></code> is <code class="docutils literal notranslate"><span class="pre">sys.argv[0]</span></code> when this script is run with <code class="docutils literal notranslate"><span class="pre">python</span> <span class="pre">-m</span> <span class="pre">lintrans</span></code>.</p>
+<dl class="field-list simple">
+<dt class="field-odd">Parameters</dt>
+<dd class="field-odd"><ul class="simple">
+<li><p><strong>prog_name</strong> (<a class="reference external" href="https://docs.python.org/3/library/stdtypes.html#str" title="(in Python v3.10)"><em>str</em></a>) – The name of the program</p></li>
+<li><p><strong>args</strong> (<a class="reference external" href="https://docs.python.org/3/library/stdtypes.html#list" title="(in Python v3.10)"><em>list</em></a><em>[</em><a class="reference external" href="https://docs.python.org/3/library/stdtypes.html#str" title="(in Python v3.10)"><em>str</em></a><em>]</em>) – The other arguments to the program</p></li>
+</ul>
+</dd>
+</dl>
+</dd></dl>
+
 </section>
 </section>
 

diff --git a/docs/genindex.html b/docs/genindex.html
@@ -447,8 +447,12 @@
 <h2 id="M">M</h2>
 <table style="width: 100%" class="indextable genindextable"><tr>
   <td style="width: 33%; vertical-align: top;"><ul>
-      <li><a href="lintrans.gui.html#lintrans.gui.main_window.main">main() (in module lintrans.gui.main_window)</a>
+      <li><a href="lintrans.html#lintrans.__main__.main">main() (in module lintrans.__main__)</a>
+
+      <ul>
+        <li><a href="lintrans.gui.html#lintrans.gui.main_window.main">(in module lintrans.gui.main_window)</a>
 </li>
+      </ul></li>
       <li><a href="lintrans.gui.plots.html#lintrans.gui.plots.classes.VectorGridPlot.matrix">matrix (lintrans.gui.plots.classes.VectorGridPlot property)</a>
 </li>
       <li><a href="lintrans.gui.html#lintrans.gui.validate.MatrixExpressionValidator">MatrixExpressionValidator (class in lintrans.gui.validate)</a>
